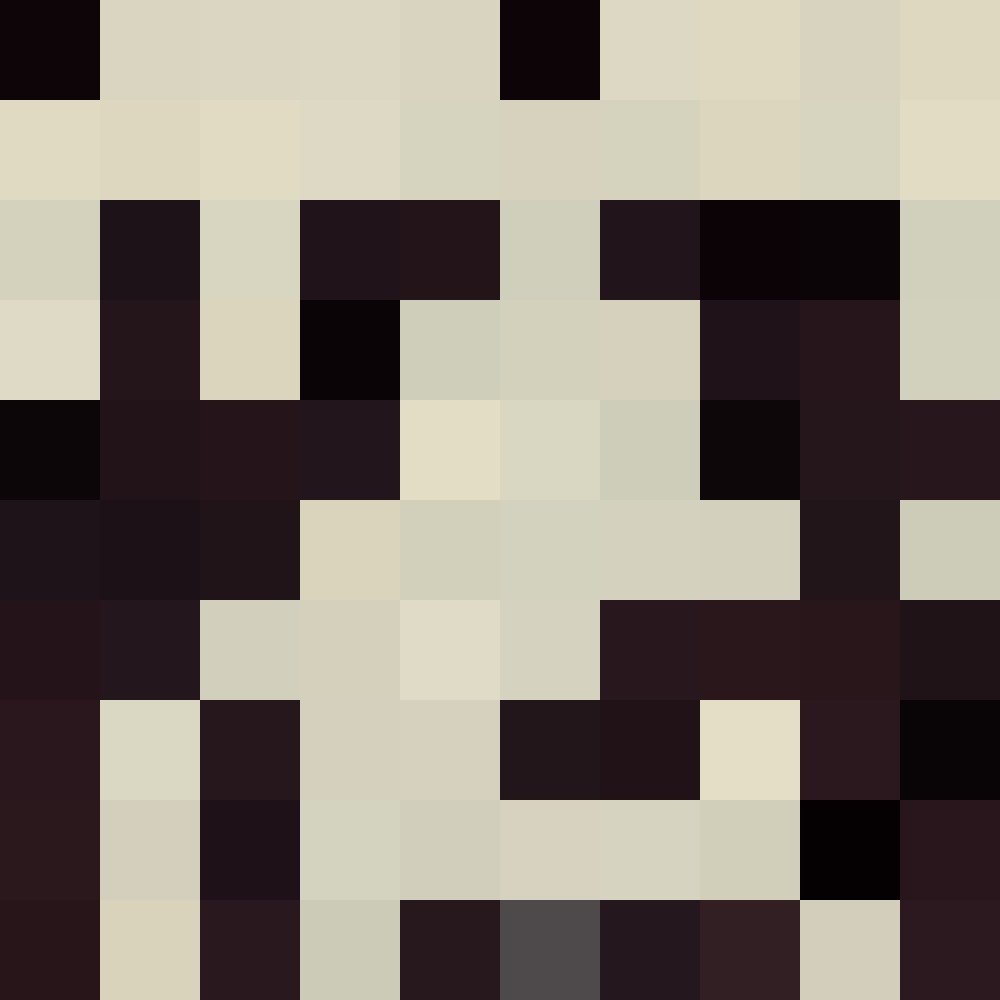
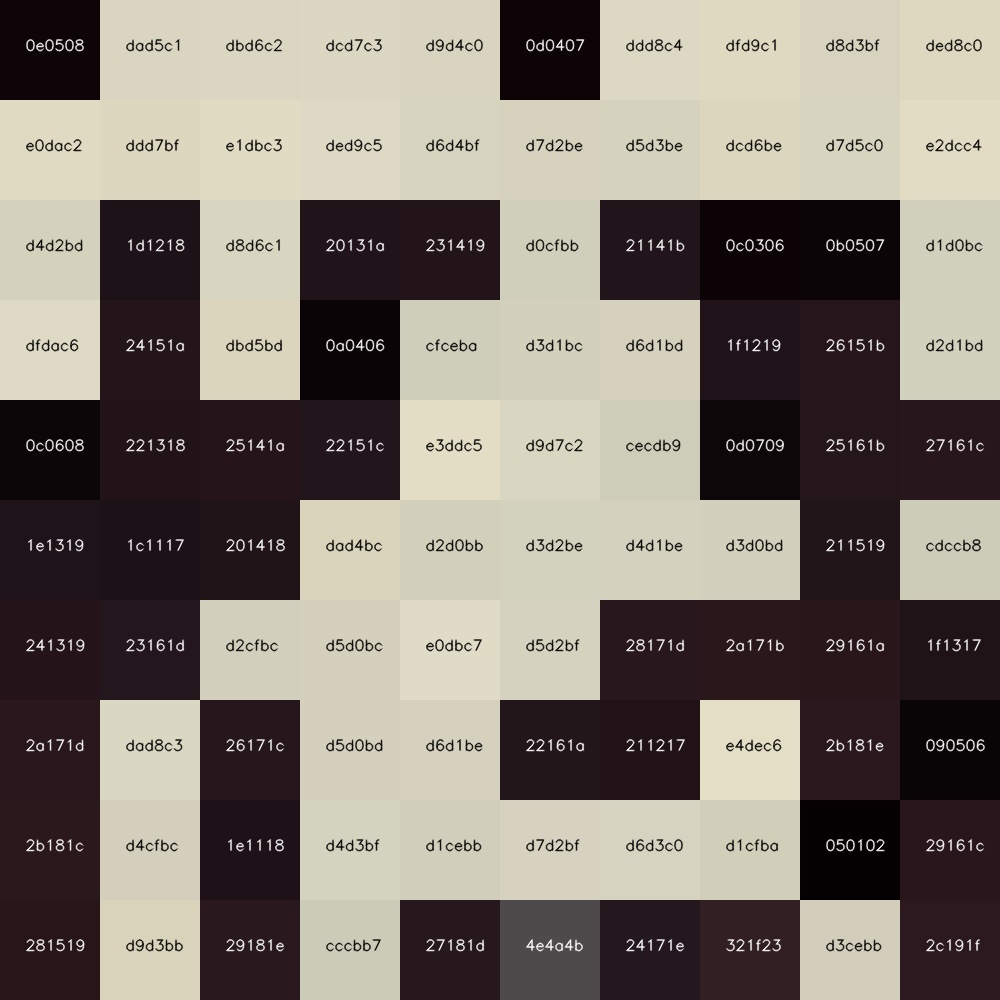
Update to write hex codes onto palette image

diff --git a/src/color_frequency.cpp b/src/color_frequency.cpp
@@ -82,6 +82,16 @@ int main(int argc, char *argv[]) {
                 }
             }
         }
+
+        // Get current color's hex code
+        std::stringstream hex_code;
+        hex_code << std::hex << std::setfill('0') << std::setw(2) << color[0] << std::setw(2) << color[1] << std::setw(2) << color[2];
+        
+        // Calculate font color based on brightness of current color (light colors get black font, dark colors get white font)
+        int font_color = (color[0] + color[1] + color[2]) / 3 > 128 ? 0 : 255;
+
+        // Print current color's hex code onto the palette image
+        cv::putText(palette, hex_code.str(), cv::Point((i % blocks_per_row) * 100 + 25, (i / blocks_per_row) * 100 + 50), cv::FONT_HERSHEY_SIMPLEX, 0.5, cv::Scalar(font_color, font_color, font_color), 1, cv::LINE_AA);
     }
 
     // Write palette image to file
